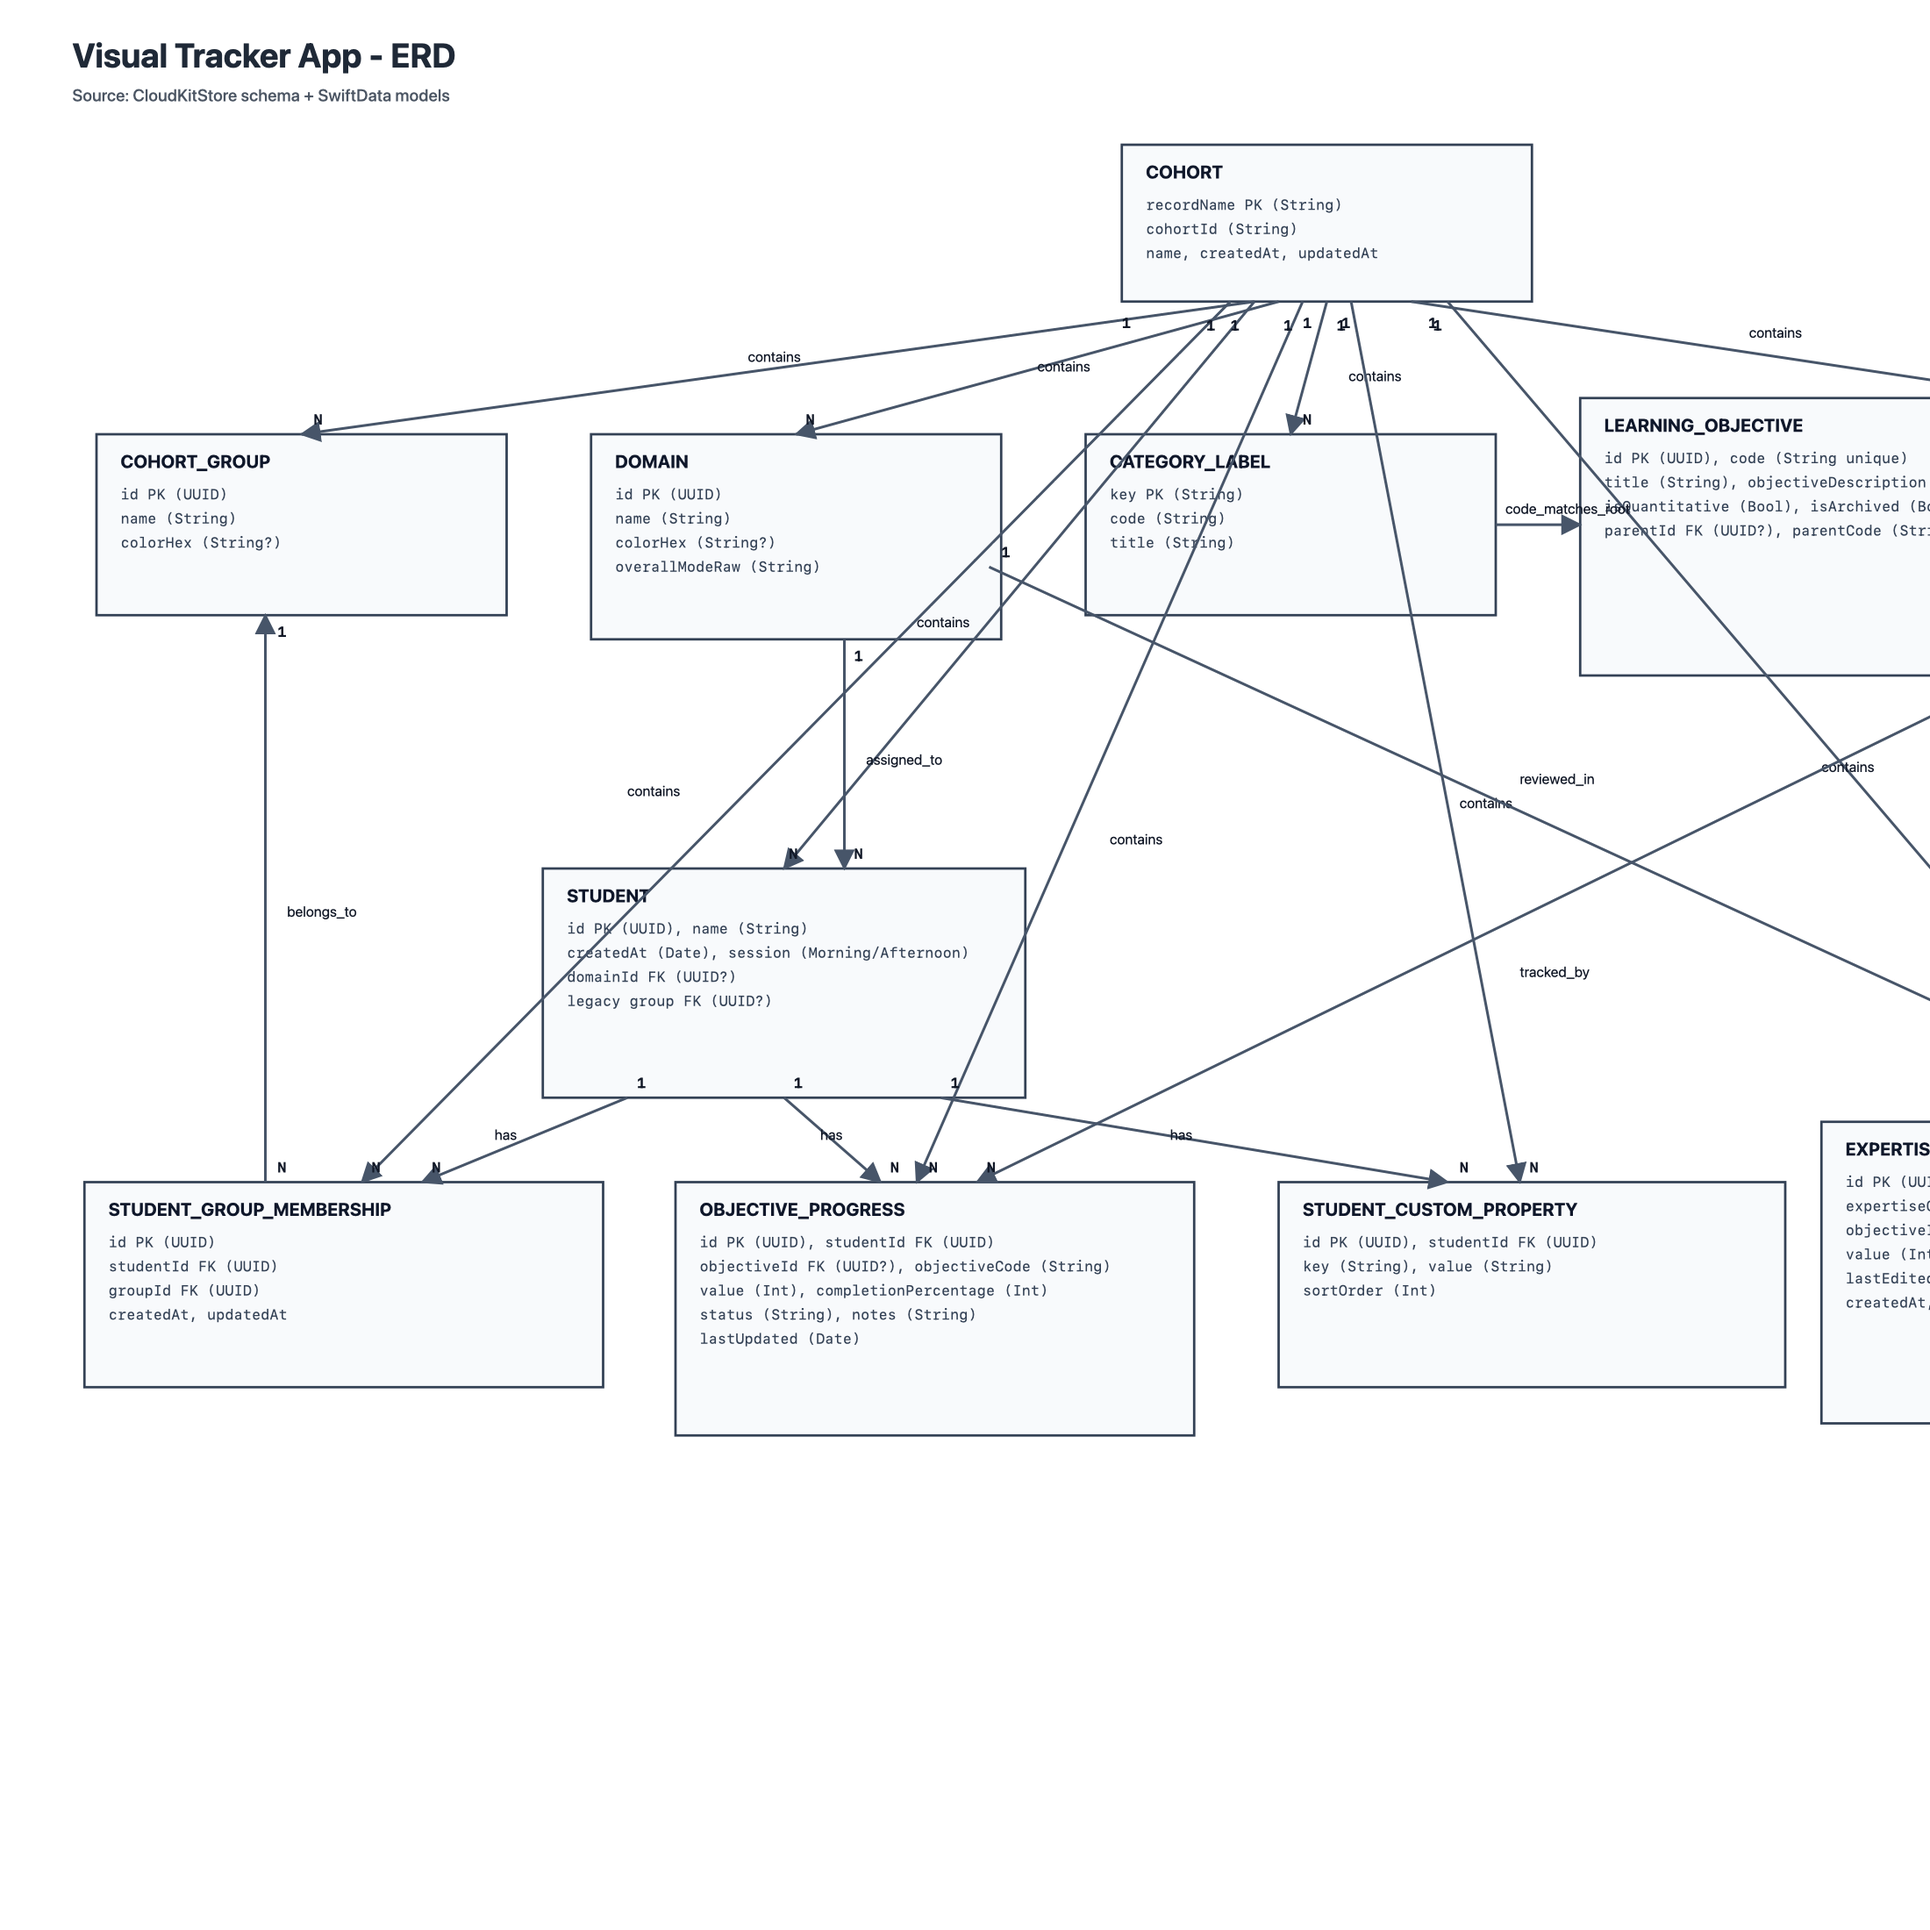
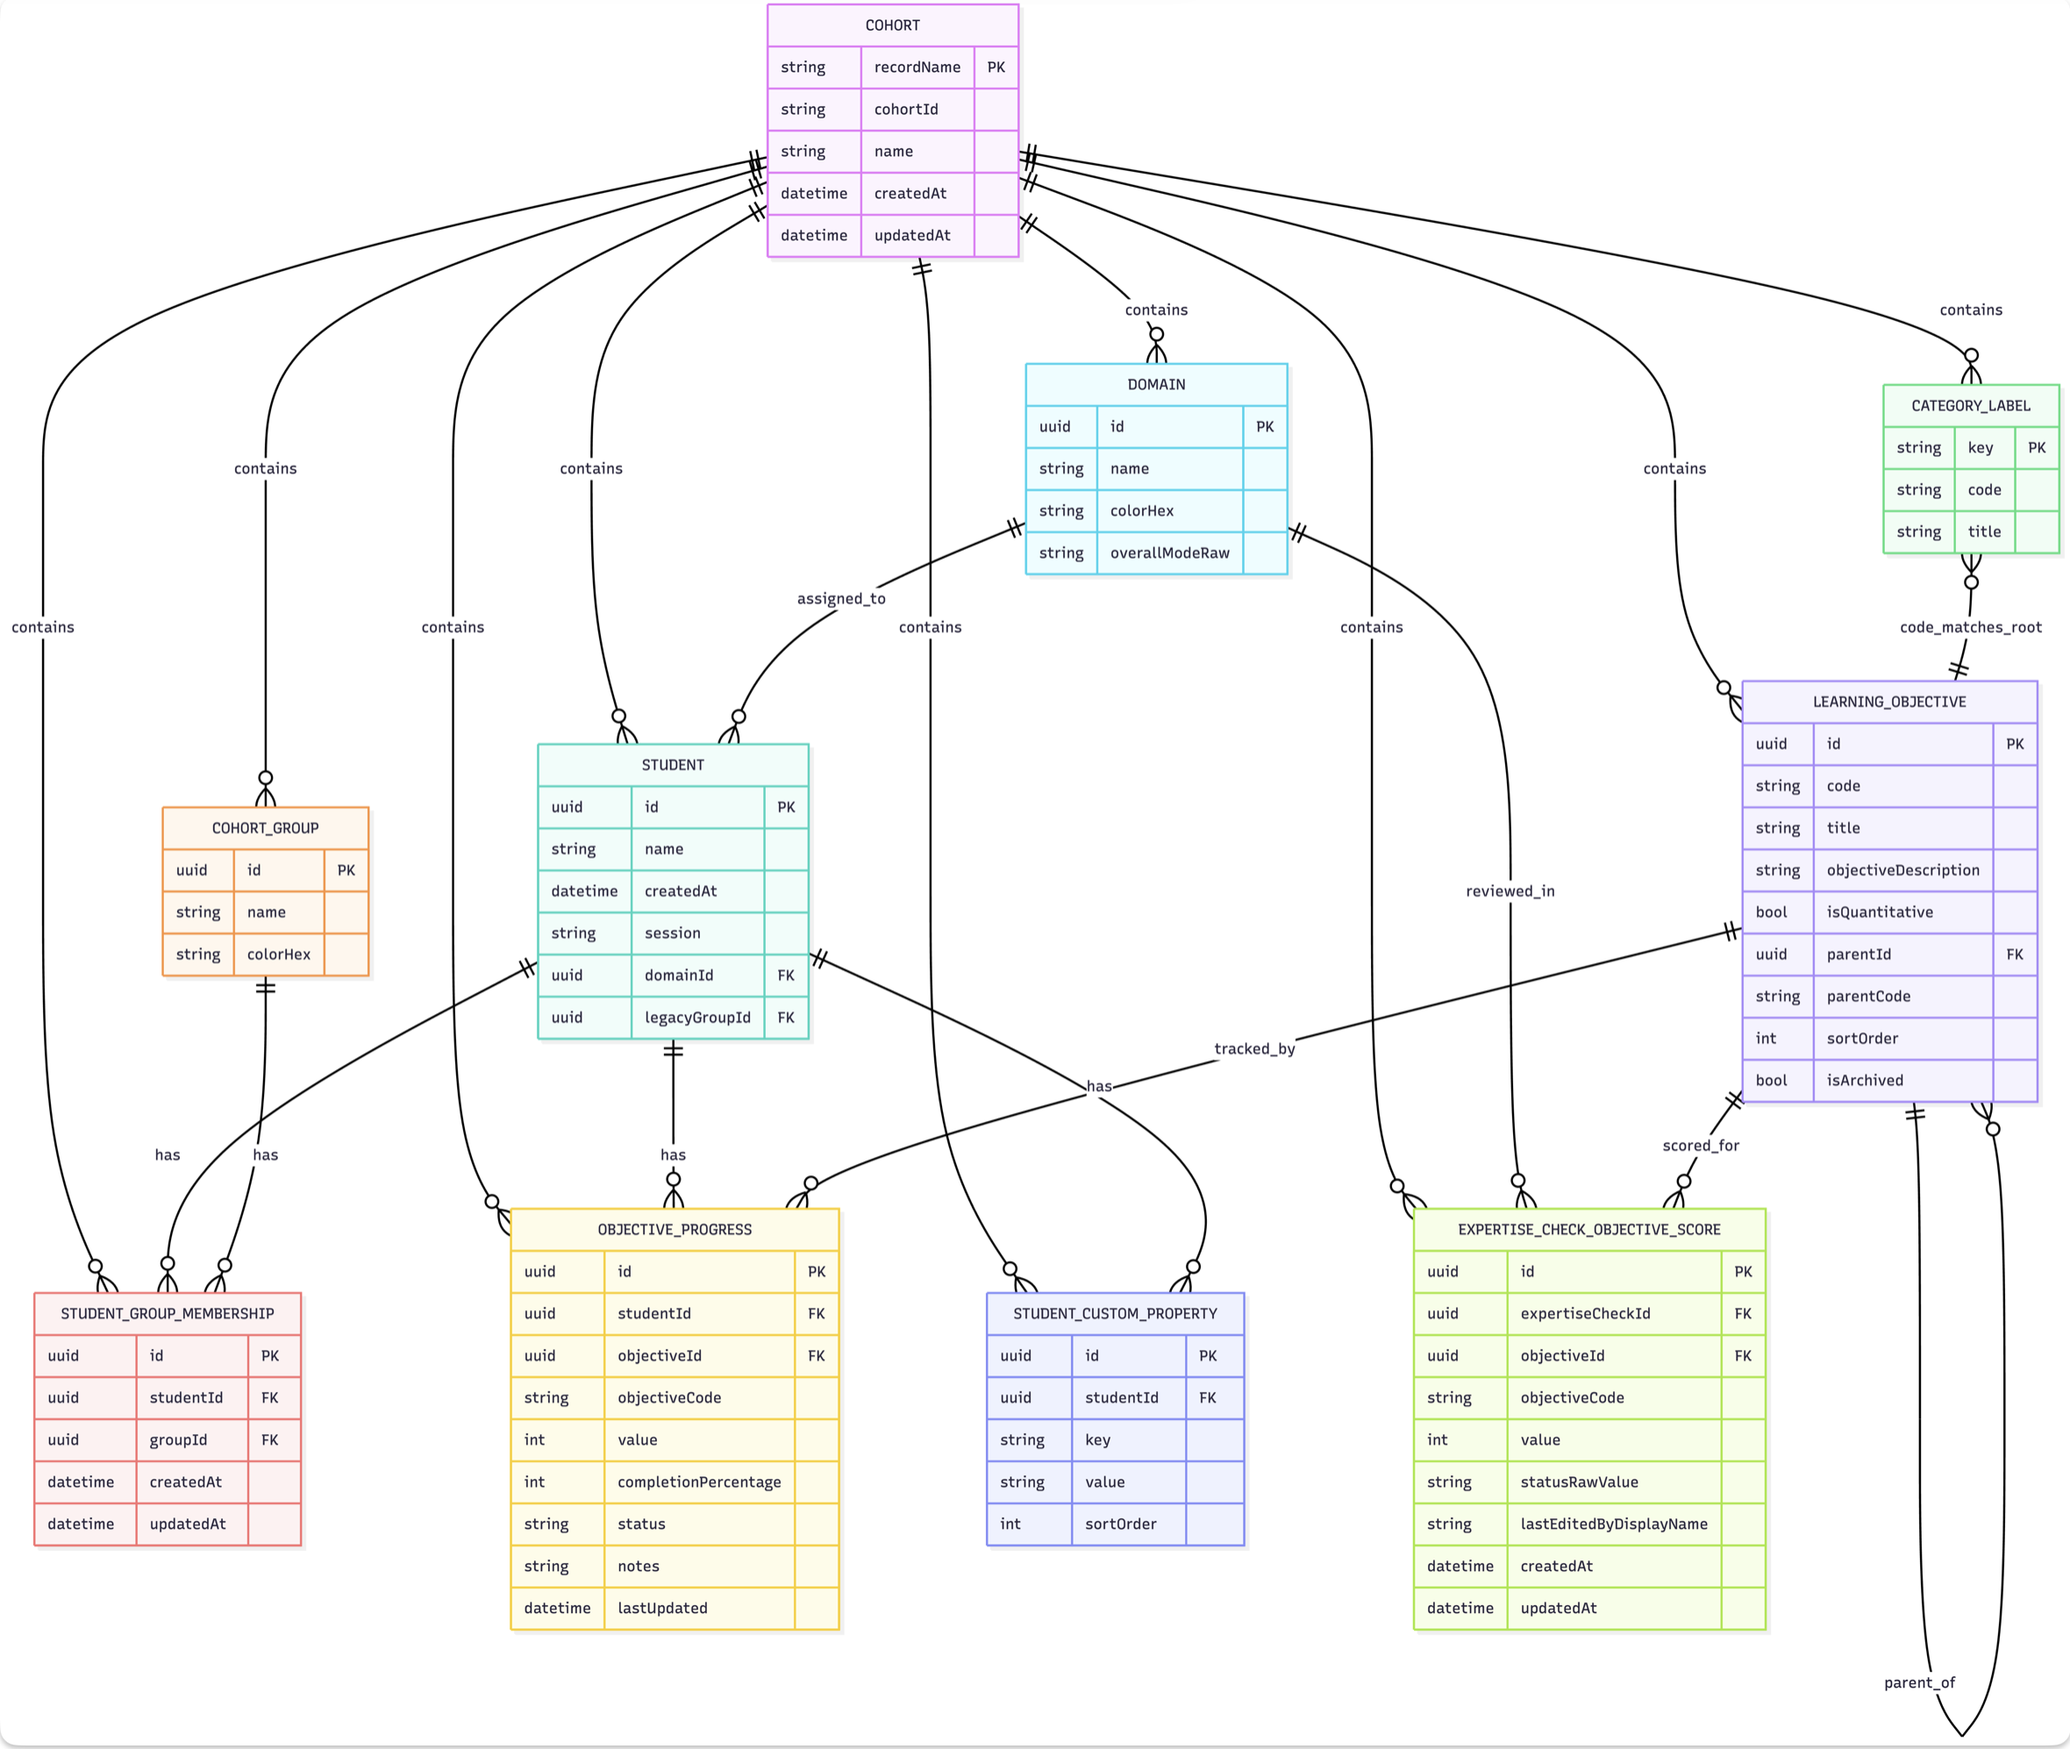
New ERD

diff --git a/README.md b/README.md
@@ -134,8 +134,6 @@ flowchart TD
 
 ### Entity Relationship Diagram
 
-Add your ERD image here when ready.
-
 ### Sync / Migration Tactics Diagram
 
 You can keep using the Mermaid diagram above, or replace it with your own exported image (for example: `architecture/visual-tracker-sync-flow.png`).
